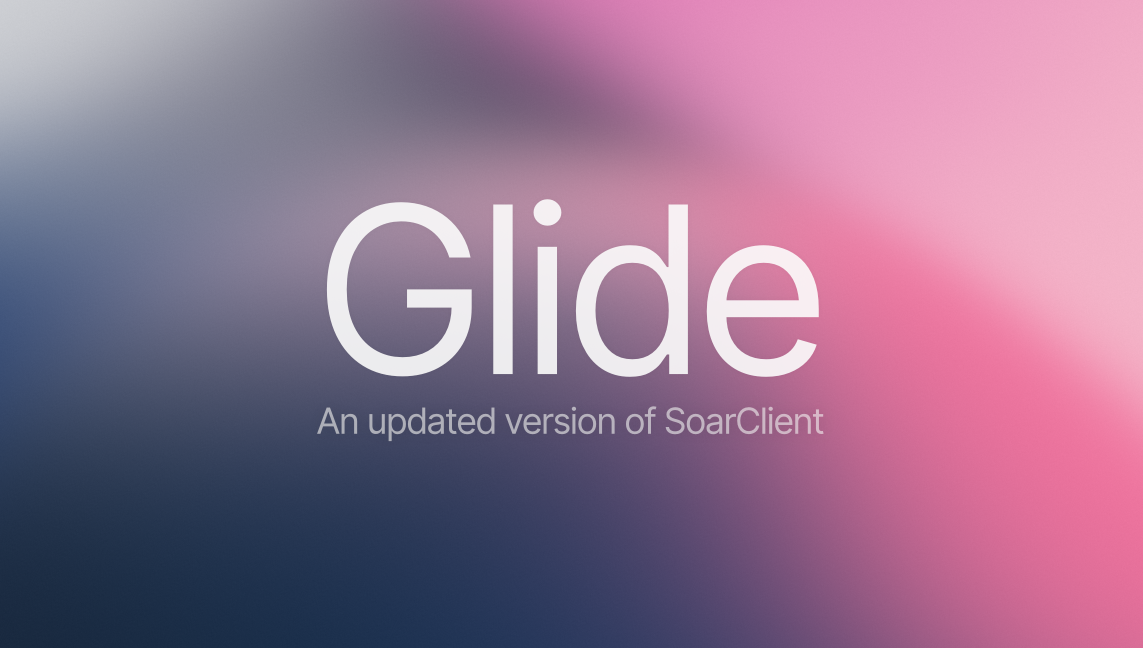
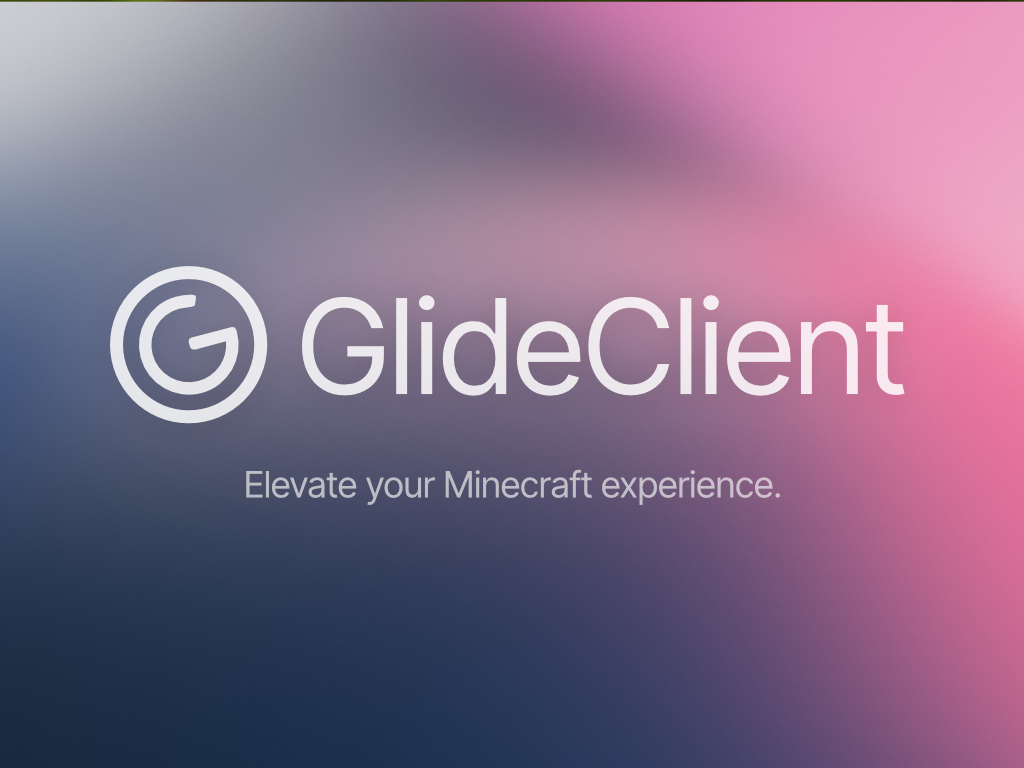
Branding files

diff --git a/index.html b/index.html
@@ -1,0 +1,15 @@
+<!DOCTYPE html>
+<html lang="en">
+<head>
+    <meta charset="UTF-8">
+    <meta name="viewport" content="width=device-width, initial-scale=1.0">
+    <title>Redirect</title>
+    <meta http-equiv="refresh" content="0; URL='https://help.glideclient.com/articles/branding'" />
+    <script>
+        window.location.replace("https://help.glideclient.com/articles/branding");
+    </script>
+</head>
+<body>
+    
+</body>
+</html>

diff --git a/README.md b/README.md
@@ -1,29 +1,2 @@
 # branding
-
-#### We allow fair use of our branding 
-You are welcome to use our official logo and branding materials to accurately refer to our client software. Misuse of our branding, including but not limited to using our logo to mislead our users or in a way that harms our reputation, may result in the revocation of this permission.
-
-## Fonts
-We use [Inter Tight](https://github.com/googlefonts/inter-gf-tight), and [Fluent Icons](https://github.com/microsoft/fluentui-system-icons)<br>
-
-For chinese and japanese [MiSans](https://hyperos.mi.com/font/en/) is used as a fallback
-
-## Logos
-We have two logos<br>
-The icon (symbol) which is avalible as a [png](https://glideclient.com/branding/glideicon.png) or [svg](https://glideclient.com/branding/glideicon.svg) <br>
-
-The Glide Text and slogan which is avalible as a [png](https://glideclient.com/branding/glideclient.png) or [svg](https://glideclient.com/branding/glideclient.svg) <br>
-
-The GlideClient logo and Word-Mark which is avalible as a [png](https://glideclient.com/branding/glideclientfull.png) or [svg](https://glideclient.com/branding/glideclientfull.svg) <br>
-
-## Background/Images
-We use a mesh gradient made using the [photogradient](https://photogradient.com) tool by [Daniel](https://x.com/daniel__designs) <br>
-
-You can download the Mesh gradient we use [here](https://glideclient.com/branding/wallpaper.png)
-
-## Slogan
-An updated version of Soar Client<br>
-
-The experience you have always wanted<br>
-
-Elevate your Minecraft experience.
+The GlideClient brand assets
